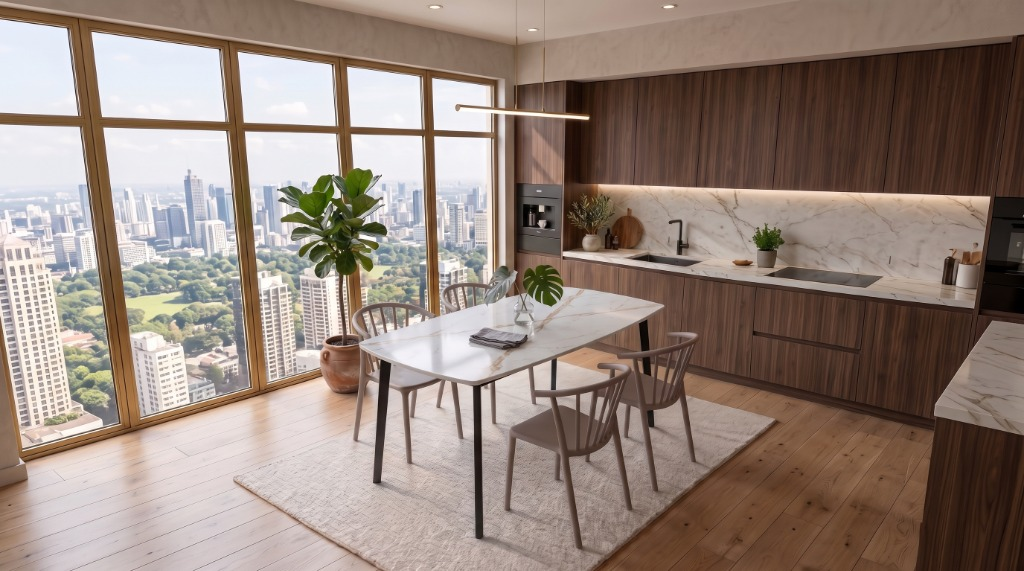
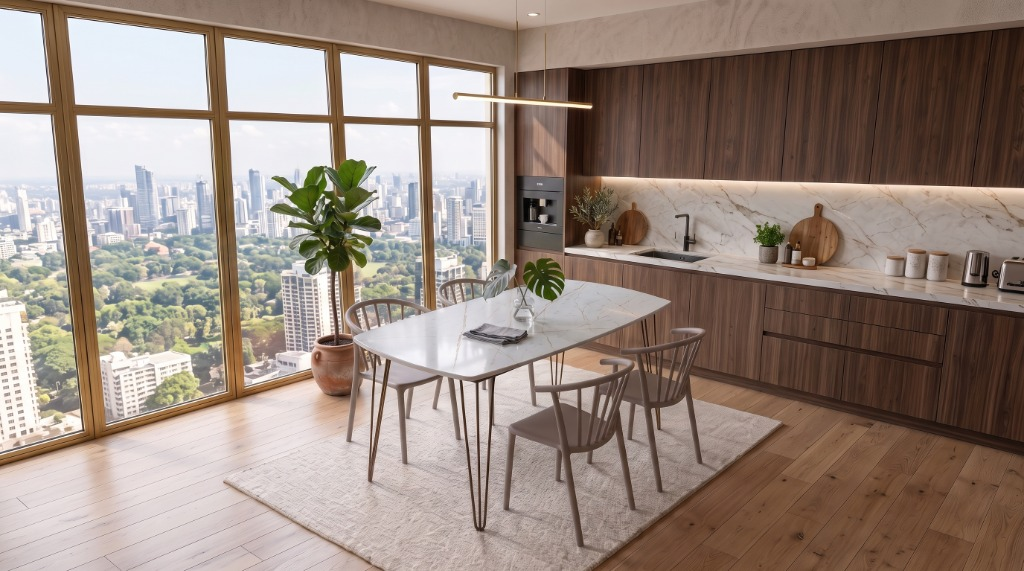
feat(sets): add dining set Taper 135x80 + 4 Todo chairs and update set renders

diff --git a/catalog.html b/catalog.html
@@ -151,7 +151,7 @@
         <nav class="cat-sidebar-chips" data-chips data-target="#catalog-grid" aria-label="Категории каталога">
           <button type="button" class="chip is-active" data-cat="all">
             <span class="chip-label" data-i18n="chip.all">Всё</span>
-            <span class="chip-count">31</span>
+            <span class="chip-count">41</span>
           </button>
           <button type="button" class="chip" data-cat="wicker-chairs">
             <span class="chip-label" data-i18n="cat.wickerChairs">Плетёные стулья</span>
@@ -167,7 +167,7 @@
           </button>
           <button type="button" class="chip" data-cat="sets">
             <span class="chip-label" data-i18n="chip.sets">Комплекты</span>
-            <span class="chip-count">14</span>
+            <span class="chip-count">15</span>
           </button>
           <button type="button" class="chip" data-cat="lighting">
             <span class="chip-label" data-i18n="cat.lighting">Настольные лампы</span>
@@ -357,7 +357,7 @@
       <button type="button" class="cat-mob-filter-trigger" data-cat-sidebar-trigger aria-label="Открыть фильтры">
         <svg viewBox="0 0 24 24" fill="none" stroke="currentColor" stroke-width="2"><line x1="4" y1="6" x2="20" y2="6"/><line x1="8" y1="12" x2="20" y2="12"/><line x1="14" y1="18" x2="20" y2="18"/></svg>
         <span data-i18n="cat.filterTitle">Фильтры</span>
-        <span class="cat-mob-count" data-mob-count>31</span>
+        <span class="cat-mob-count" data-mob-count>41</span>
       </button>
 
       <div class="cat-view-toggler" data-view-toggler aria-label="Вид сетки каталога">
@@ -1110,6 +1110,31 @@
             <div class="price">
               <span class="price__old">2&nbsp;286&nbsp;000&nbsp;сум</span>
               <span class="price__now">2&nbsp;156&nbsp;000&nbsp;сум</span>
+            </div>
+            <button type="button" class="product__buy" data-add data-i18n="buy">Купить</button>
+          </div>
+        </div>
+      </article>
+
+      <!-- 30. Bundle Taper 135 + Todo -->
+      <article class="product reveal" data-product data-slug="komplekt-taper-135-todo" data-id="b15" data-cat="sets" data-size="135x80" data-price="1724000" data-colors="black white" data-materials="металл пластик лдсп" data-stock="1">
+        <div class="product__media media">
+          <span class="badge-mto" style="background:var(--copper);color:#fff">Выгода 130 000 сум</span>
+          <button class="fav" data-fav data-i18n-aria="a11y.fav" aria-label="В избранное"><svg viewBox="0 0 24 24" fill="none" stroke="currentColor" stroke-width="1.8"><path d="M12 20s-7-4.6-7-9.5A3.5 3.5 0 0 1 12 7a3.5 3.5 0 0 1 7 3.5C19 15.4 12 20 12 20Z"/></svg></button>
+          <img src="assets/bundle-taper-135-todo.jpg" alt="Комплект: Стол Taper 135x80 + 4 стула Todo" loading="lazy" decoding="async">
+          <a class="see" href="/catalog/komplekt-taper-135-todo" data-i18n="see">Подробнее</a>
+        </div>
+        <div>
+          <div class="product__cat" data-i18n="cat.sets">Комплекты мебели</div>
+          <div class="product__name" data-i18n="komplekt-taper-135-todo.name">Комплект: Стол Taper 135x80 + 4 стула Todo</div>
+          <div class="product__spec-tag">Стол 135×80 + 4 стула · Скидка</div>
+          <div class="product-swatches" aria-label="Подтверждённые цвета">
+            <button type="button" class="product-swatch is-active" style="--swatch-color:#222222" data-color="black" data-img="assets/bundle-taper-135-todo.jpg" title="Чёрный / Белый мрамор" aria-label="Чёрный / Белый мрамор"></button>
+          </div>
+          <div class="product__foot">
+            <div class="price">
+              <span class="price__old">1&nbsp;854&nbsp;000&nbsp;сум</span>
+              <span class="price__now">1&nbsp;724&nbsp;000&nbsp;сум</span>
             </div>
             <button type="button" class="product__buy" data-add data-i18n="buy">Купить</button>
           </div>

diff --git a/assets/products.js b/assets/products.js
@@ -3500,6 +3500,91 @@
     "active": 1,
     "currency": "сум",
     "sort": 113
+  },
+  {
+    "slug": "komplekt-taper-135-todo",
+    "legacyId": "b15",
+    "model": "Комплект Taper 135×80 + 4 стула Todo",
+    "category": "sets",
+    "product_type": "bundle",
+    "unit": "set",
+    "price": 1724000,
+    "price_old": 1854000,
+    "dimensions": "Стол 135 × 80 × 75 см, 4 стула 80 × 51 × 51 см",
+    "materials": [
+      "металл",
+      "литой полипропилен",
+      "ЛДСП мрамор"
+    ],
+    "maxLoad": null,
+    "confirmedColors": [
+      {
+        "id": "white-black",
+        "name": {
+          "ru": "Белый мрамор / Чёрный",
+          "uz": "Oq marmar / Qora",
+          "en": "White marble / Black"
+        },
+        "hex": "#222222",
+        "image": "assets/bundle-taper-135-todo.jpg",
+        "images": [
+          "assets/bundle-taper-135-todo.jpg",
+          "assets/prod-table-taper-135-white.jpg",
+          "assets/prod-chair-todo.jpg",
+          "assets/scene-dining-contrast.png"
+        ]
+      }
+    ],
+    "isTable": false,
+    "images": [
+      "assets/bundle-taper-135-todo.jpg",
+      "assets/prod-table-taper-135-white.jpg",
+      "assets/prod-chair-todo.jpg",
+      "assets/scene-dining-contrast.png"
+    ],
+    "bundle_items": [
+      {
+        "component_product_id": "stol-taper-135",
+        "quantity": 1,
+        "sort": 0
+      },
+      {
+        "component_product_id": "stul-todo",
+        "quantity": 4,
+        "sort": 1
+      }
+    ],
+    "i18n": {
+      "ru": {
+        "name": "Комплект: Стол Taper 135×80 + 4 стула Todo (чёрный)",
+        "category_label": "Комплекты мебели",
+        "description": "Вместительный обеденный комплект в контрастном дизайне: большой стол Taper 135×80 см с белой мраморной столешницей и 4 лаконичных стула Todo в глубоком чёрном цвете. Монолитные полимерные сиденья и устойчивый металлический каркас. Экономия 130 000 сум при покупке комплектом.",
+        "usage": "Для обеденной зоны, кухни, квартиры-студии и заведений HoReCa",
+        "seo_title": "Комплект стол Taper 135x80 и 4 стула Todo - купить в Ташкенте BTT",
+        "seo_description": "Обеденный комплект: прямоугольный стол Taper 135x80 и 4 стула Todo чёрные со скидкой за 1 724 000 сум от BTT в Ташкенте."
+      },
+      "uz": {
+        "name": "To'plam: Taper 135×80 stoli + 4 ta Todo stuli (qora)",
+        "category_label": "Mebel to‘plamlari",
+        "description": "Katta zamonaviy tushlik to'plami: oq marmar naqshli Taper 135x80 stoli va 4 ta qora rangli Todo stullari. 130 000 so'm tejamkorlik bilan.",
+        "usage": "Oshxona, ovqatlanish xonasi, studiya va HoReCa maskanlari uchun",
+        "seo_title": "Taper 135x80 va 4 ta Todo stuli to'plami - BTT Toshkent",
+        "seo_description": "Tayyor to'plam: Taper 135x80 stoli va 4 ta qora Todo stullari 1 724 000 so'm maxsus narxda."
+      },
+      "en": {
+        "name": "Dining Set: Taper 135×80 Table + 4 Todo Chairs (Black)",
+        "category_label": "Furniture sets",
+        "description": "Spacious contemporary dining set: large Taper 135×80 cm table in white marble finish and 4 sleek Todo chairs in solid black. Bundle savings: 130,000 UZS.",
+        "usage": "For dining spaces, open-plan kitchens, and HoReCa venues",
+        "seo_title": "Taper 135x80 Table + 4 Todo Chairs Set - BTT Tashkent",
+        "seo_description": "Buy modern dining set: rectangular Taper 135x80 table + 4 black Todo chairs for 1,724,000 UZS by BTT."
+      }
+    },
+    "status": "in_stock",
+    "availability": "in_stock",
+    "active": 1,
+    "currency": "сум",
+    "sort": 114
   }
 ];
 

diff --git a/sets.html b/sets.html
@@ -597,6 +597,34 @@
           </div>
         </article>
 
+        <!-- Bundle 15: Taper 135x80 + 4 Todo Black -->
+        <article class="sol-card reveal" style="border-radius:20px;overflow:hidden;background:var(--paper);border:1px solid var(--line);box-shadow:var(--spatial-shadow);display:flex;flex-direction:column">
+          <div style="position:relative;height:240px;overflow:hidden">
+            <img src="assets/bundle-taper-135-todo.jpg" alt="Комплект стол Taper 135x80 и 4 стула Todo" loading="lazy" decoding="async" style="width:100%;height:100%;object-fit:cover;transition:transform .6s ease">
+            <span class="pill pill--copper tl" style="position:absolute;top:14px;left:14px;font-size:12px">Минимализм</span>
+            <span class="pill pill--ghost tr" style="position:absolute;top:14px;right:14px;font-size:12px;background:rgba(255,255,255,0.9)">Экономия 130 000 сум</span>
+          </div>
+          <div style="padding:22px;display:flex;flex-direction:column;flex:1">
+            <h3 style="font-size:17.5px;font-weight:700;margin-bottom:8px">1 стол Taper 135×80 + 4 стула Todo (чёрный)</h3>
+            <p style="font-size:13.5px;color:var(--muted);line-height:1.5;flex:1;margin-bottom:14px">Большой обеденный стол Taper 135×80 см с белой мраморной столешницей и 4 лаконичных стула Todo в глубоком чёрном цвете. Контрастный современный дизайн для кухни или студии.</p>
+            <div style="display:flex;gap:6px;flex-wrap:wrap;margin-bottom:16px">
+              <span class="chip-pill" style="font-size:11.5px;padding:3px 8px;background:var(--cream-2);border-radius:6px">Стол 135 × 80 × 75 см</span>
+              <span class="chip-pill" style="font-size:11.5px;padding:3px 8px;background:var(--cream-2);border-radius:6px">4 стула Todo</span>
+              <span class="chip-pill" style="font-size:11.5px;padding:3px 8px;background:var(--cream-2);border-radius:6px">Чёрный монолит</span>
+            </div>
+            <div style="border-top:1px solid var(--line-2);padding-top:14px;display:flex;align-items:center;justify-content:space-between;gap:10px;flex-wrap:wrap">
+              <div>
+                <span style="font-size:11px;color:var(--muted);display:block"><del>1 854 000 сум</del></span>
+                <strong style="font-size:18px;color:var(--copper)">1 724 000 сум</strong>
+              </div>
+              <div style="display:flex;gap:8px">
+                <button type="button" class="btn btn--copper btn--sm" onclick="window.BTT_CART && window.BTT_CART.openQuickOrder({ id: 'komplekt-taper-135-todo', slug: 'komplekt-taper-135-todo', name: 'Комплект: стол Taper 135x80 + 4 стула Todo (чёрный)', price: 1724000, now: 1724000, img: 'assets/bundle-taper-135-todo.jpg' })">В 1 клик</button>
+                <button type="button" class="btn btn--ghost btn--sm" data-quick-bundle='{"table":"stol-taper-135","chair":"stul-todo","qty":4,"chairColor":"black"}'>В конструктор</button>
+              </div>
+            </div>
+          </div>
+        </article>
+
       </div>
     </div>
   </section>

diff --git a/assets/i18n.js b/assets/i18n.js
@@ -143,6 +143,8 @@ window.BTT_I18N = {
     "komplekt-taper-135-noero.cat": "Комплекты мебели",
     "komplekt-taper-135-jardin.name": "Комплект: Стол Taper 135x80 + 4 кресла Jardin",
     "komplekt-taper-135-jardin.cat": "Комплекты мебели",
+    "komplekt-taper-135-todo.name": "Комплект: Стол Taper 135x80 + 4 стула Todo",
+    "komplekt-taper-135-todo.cat": "Комплекты мебели",
     "b1.name": "Комплект: Стол Vertex D90 + 4 стула Vertex",
     "b2.name": "Комплект: Стол Vertex D90 + 4 стула Corda",
     "b3.name": "Комплект: Стол Taper 80x80 + 4 стула Roero",
@@ -157,6 +159,7 @@ window.BTT_I18N = {
     "b12.name": "Комплект: Стол Taper 135x80 + 4 стула Roero",
     "b13.name": "Комплект: Стол Taper 135x80 + 4 стула Noero",
     "b14.name": "Комплект: Стол Taper 135x80 + 4 кресла Jardin",
+    "b15.name": "Комплект: Стол Taper 135x80 + 4 стула Todo",
     "chip.furniture": "Плетёные стулья",
     "chip.planterMix": "Пластиковые стулья",
     "chip.indoor": "Мягкие стулья",
@@ -1157,6 +1160,8 @@ window.BTT_I18N = {
     "komplekt-taper-135-noero.cat": "Mebel to'plamlari",
     "komplekt-taper-135-jardin.name": "To'plam: Taper 135x80 stoli + 4 ta Jardin kreslosi",
     "komplekt-taper-135-jardin.cat": "Mebel to'plamlari",
+    "komplekt-taper-135-todo.name": "To'plam: Taper 135x80 stoli + 4 ta Todo stuli",
+    "komplekt-taper-135-todo.cat": "Mebel to'plamlari",
     "b1.name": "To'plam: Yumaloq stol Vertex D90 + 4 ta Vertex stuli",
     "b2.name": "To'plam: Yumaloq stol Vertex D90 + 4 ta Corda stuli",
     "b3.name": "To'plam: Taper 80x80 stoli + 4 ta Roero stuli",
@@ -1171,6 +1176,7 @@ window.BTT_I18N = {
     "b12.name": "To'plam: Taper 135x80 stoli + 4 ta Roero stuli",
     "b13.name": "To'plam: Taper 135x80 stoli + 4 ta Noero stuli",
     "b14.name": "To'plam: Taper 135x80 stoli + 4 ta Jardin kreslosi",
+    "b15.name": "To'plam: Taper 135x80 stoli + 4 ta Todo stuli",
     "chip.furniture": "To‘qilgan stullar",
     "chip.planterMix": "Plastik stullar",
     "chip.indoor": "Yumshoq stullar",
@@ -2171,6 +2177,8 @@ window.BTT_I18N = {
     "komplekt-taper-135-noero.cat": "Furniture sets",
     "komplekt-taper-135-jardin.name": "Dining Set: Taper 135x80 Table + 4 Jardin Armchairs",
     "komplekt-taper-135-jardin.cat": "Furniture sets",
+    "komplekt-taper-135-todo.name": "Dining Set: Taper 135x80 Table + 4 Todo Chairs",
+    "komplekt-taper-135-todo.cat": "Furniture sets",
     "b1.name": "Dining Set: Round Table Vertex D90 + 4 Vertex Chairs",
     "b2.name": "Dining Set: Round Table Vertex D90 + 4 Corda Chairs",
     "b3.name": "Dining Set: Taper 80x80 Table + 4 Roero Chairs",
@@ -2185,6 +2193,7 @@ window.BTT_I18N = {
     "b12.name": "Dining Set: Taper 135x80 Table + 4 Roero Chairs",
     "b13.name": "Dining Set: Taper 135x80 Table + 4 Noero Chairs",
     "b14.name": "Dining Set: Taper 135x80 Table + 4 Jardin Armchairs",
+    "b15.name": "Dining Set: Taper 135x80 Table + 4 Todo Chairs",
     "chip.furniture": "Wicker chairs",
     "chip.planterMix": "Plastic chairs",
     "chip.indoor": "Upholstered chairs",
